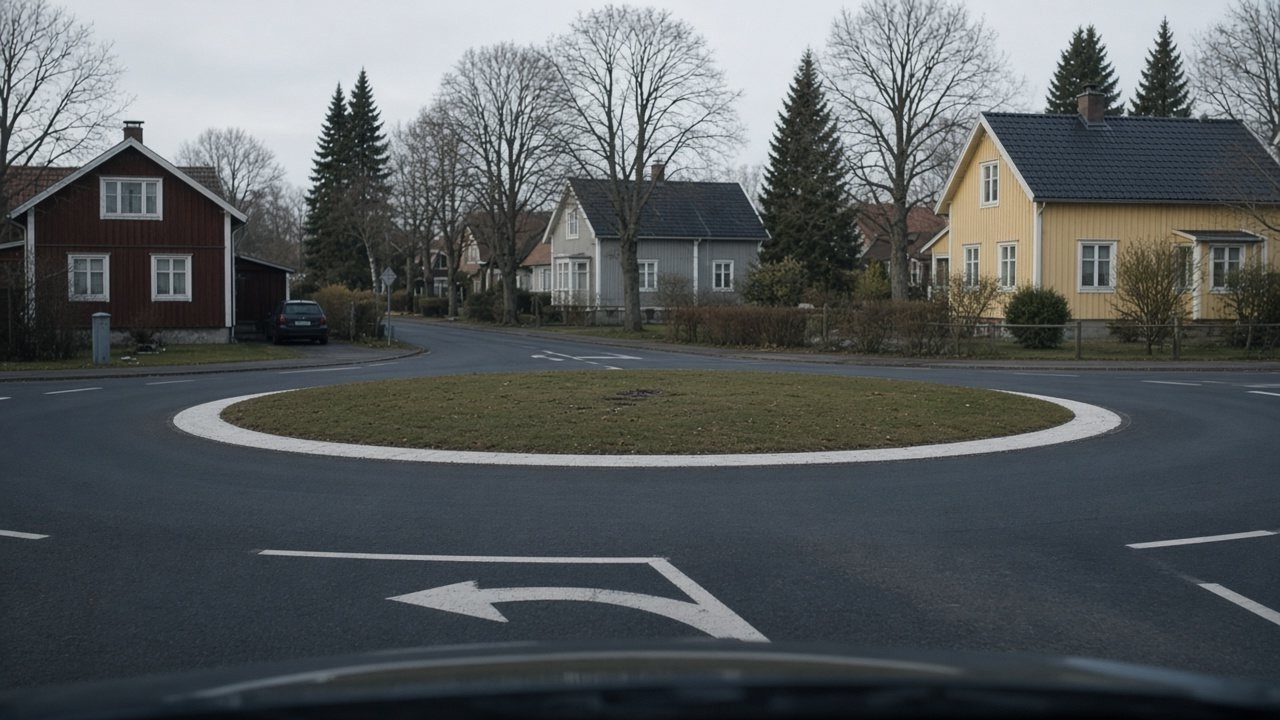
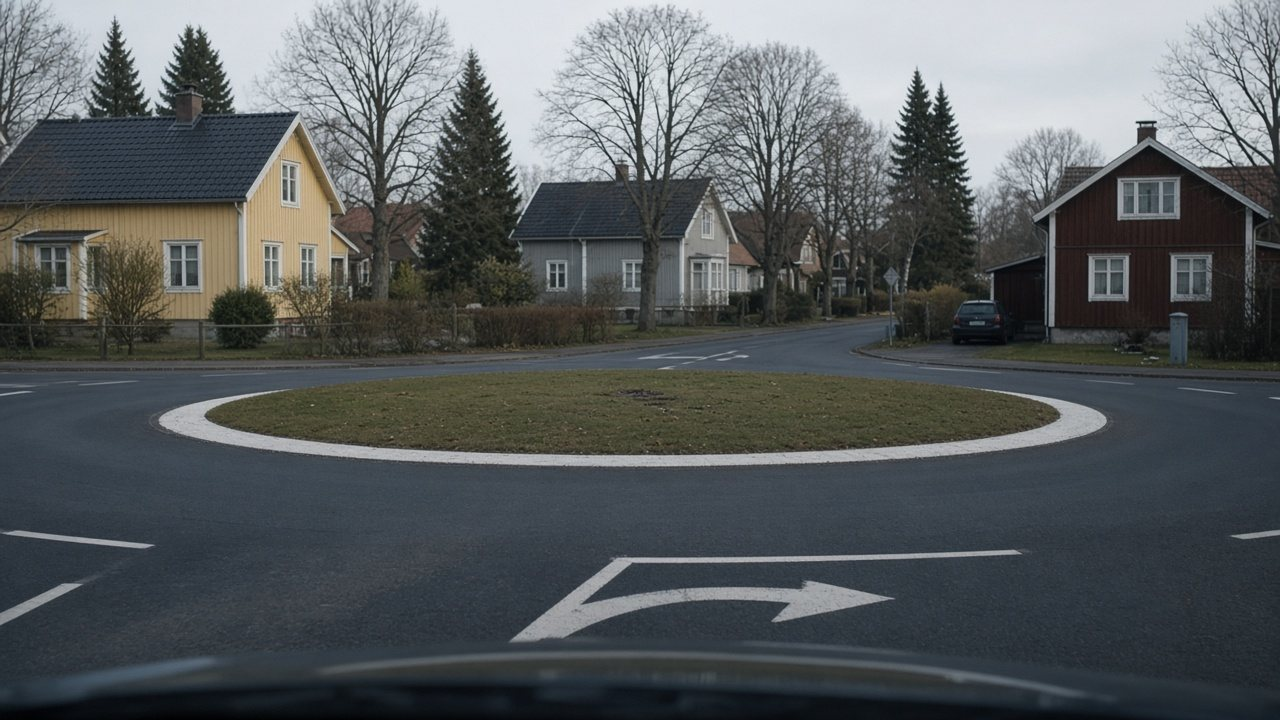
Do not flip landing roundabout photo
The horizontal flip pointed the entry arrow the wrong way for Swedish
högertrafik. Use the _source driver POV image as-is.

diff --git a/scripts/fix-landing-traffic-photos.py b/scripts/fix-landing-traffic-photos.py
@@ -4,8 +4,9 @@
 AI/stock images are often mirrored or generated for left-hand traffic. This script
 applies the corrections we expect for korpasset.se:
 
-- country-road.jpg, roundabout.jpg: horizontal flip (exterior, no readable text)
-- residential-street.jpg: exterior bostadsgata (LHD car in the right lane)
+- country-road.jpg: horizontal flip (exterior, no readable text)
+- roundabout.jpg: use _source as-is (do not flip — a flip points the entry arrow the wrong way)
+- residential-street.jpg: exterior bostadsgata (car in the right lane)
 
 Re-run after replacing any file under app/public/images/landing/.
 Requires: pip install pillow
@@ -39,9 +40,7 @@ def main() -> None:
     copy_source("country-road.jpg")
     flip_horizontal(LANDING / "country-road.jpg")
 
-    # Driver POV roundabout: store the raw export, then flip once for högertrafik.
     copy_source("roundabout.jpg")
-    flip_horizontal(LANDING / "roundabout.jpg")
 
     copy_source("residential-street.jpg")
     print("Landing traffic photos updated.")
